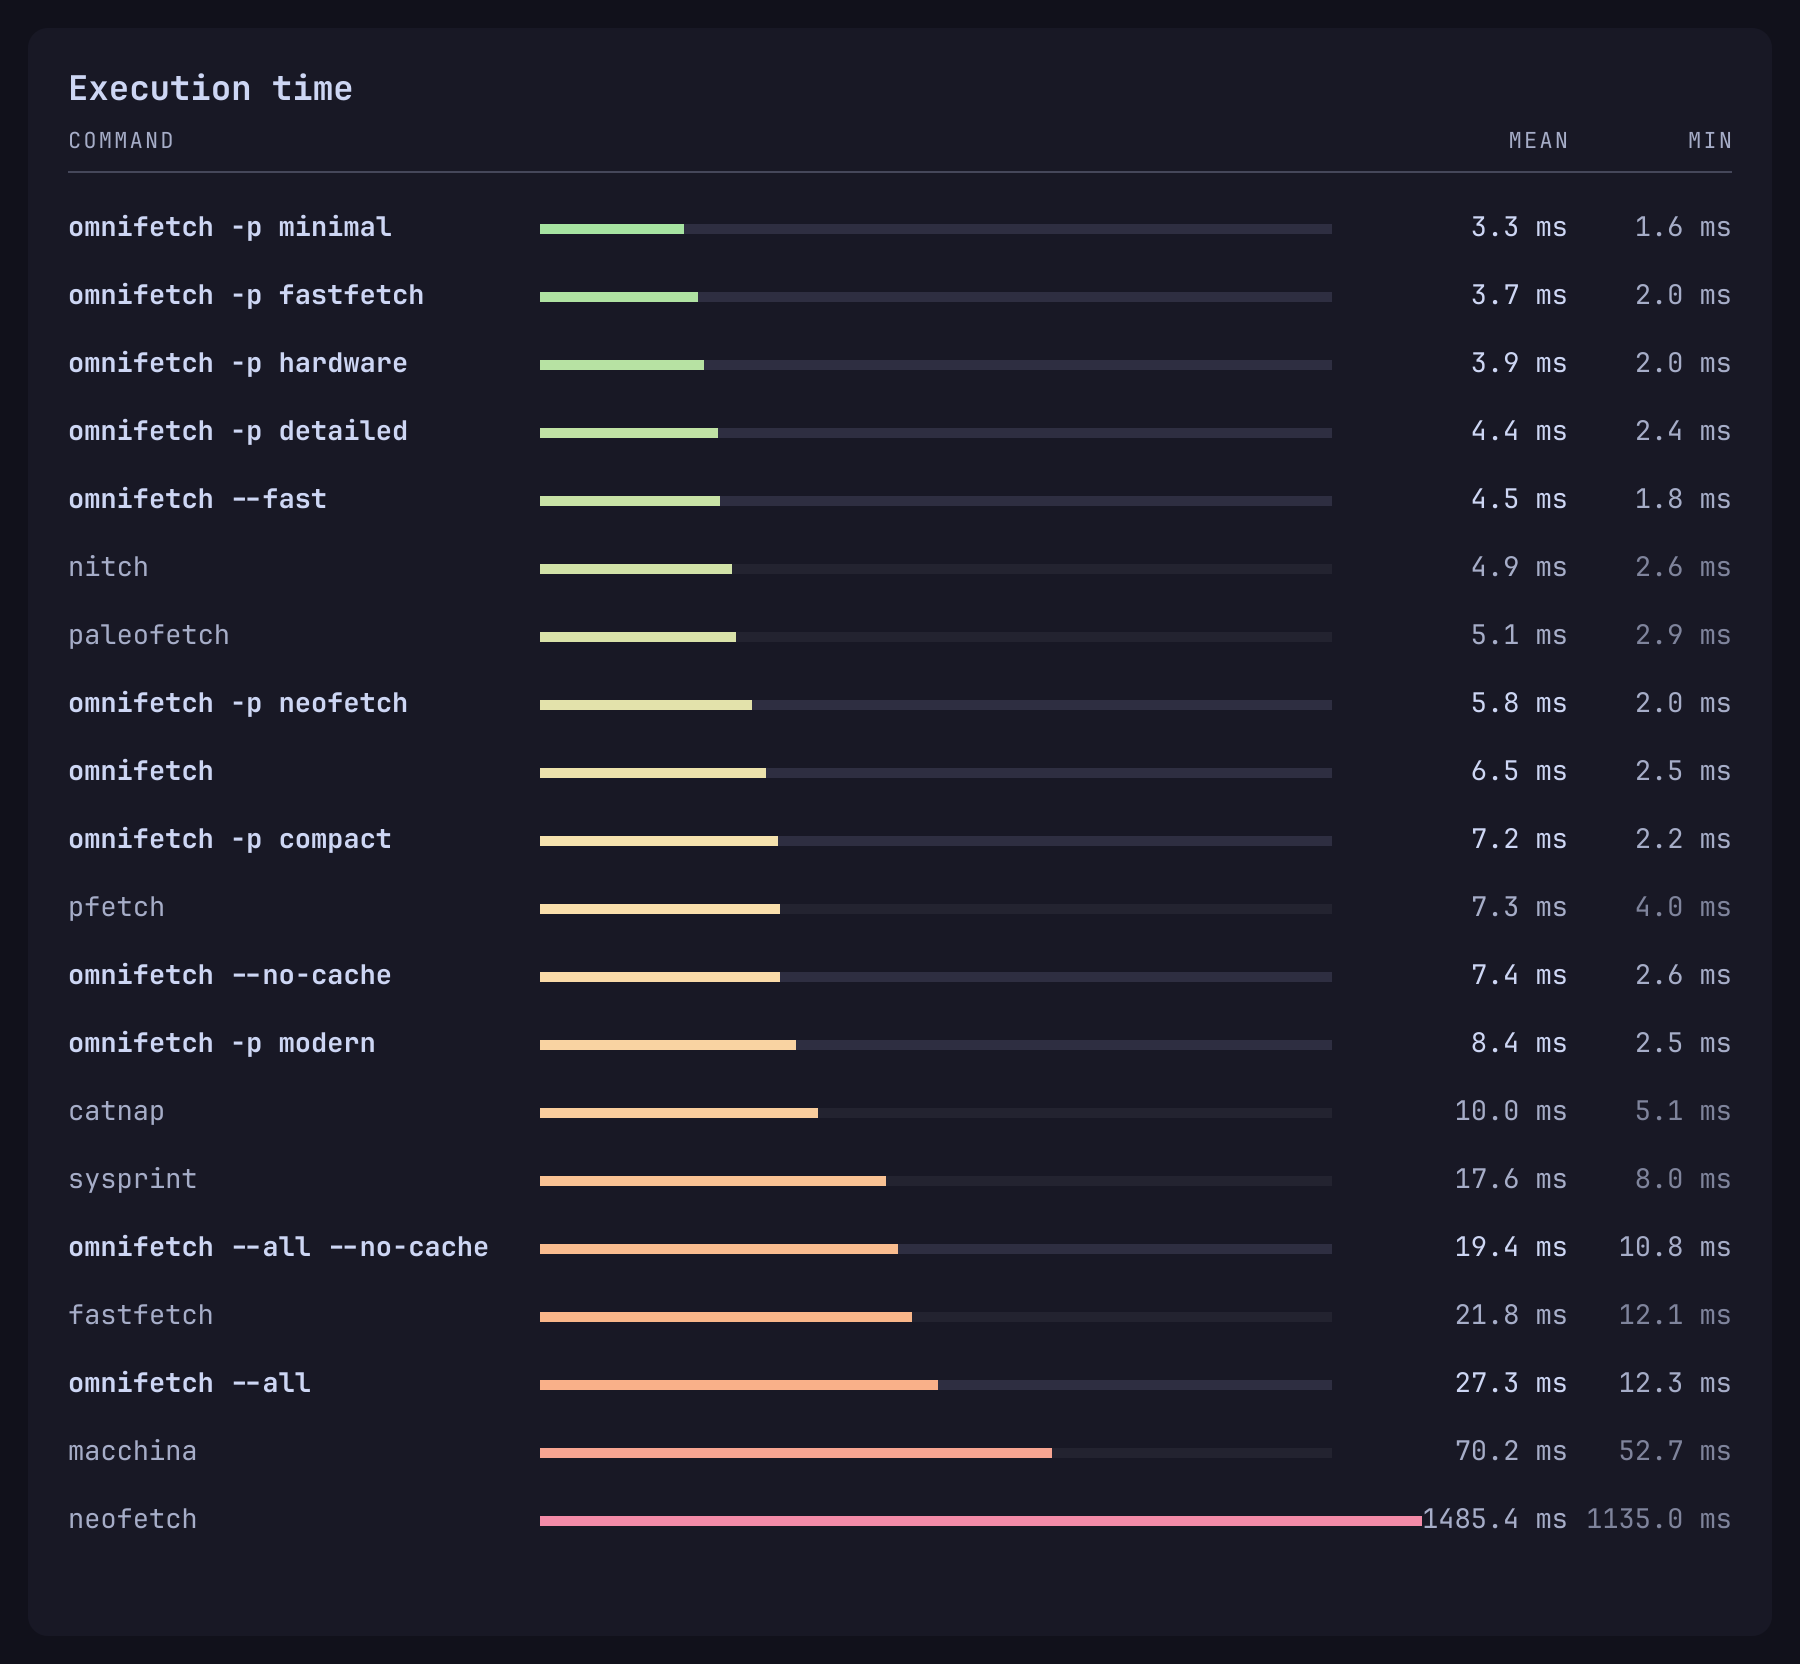
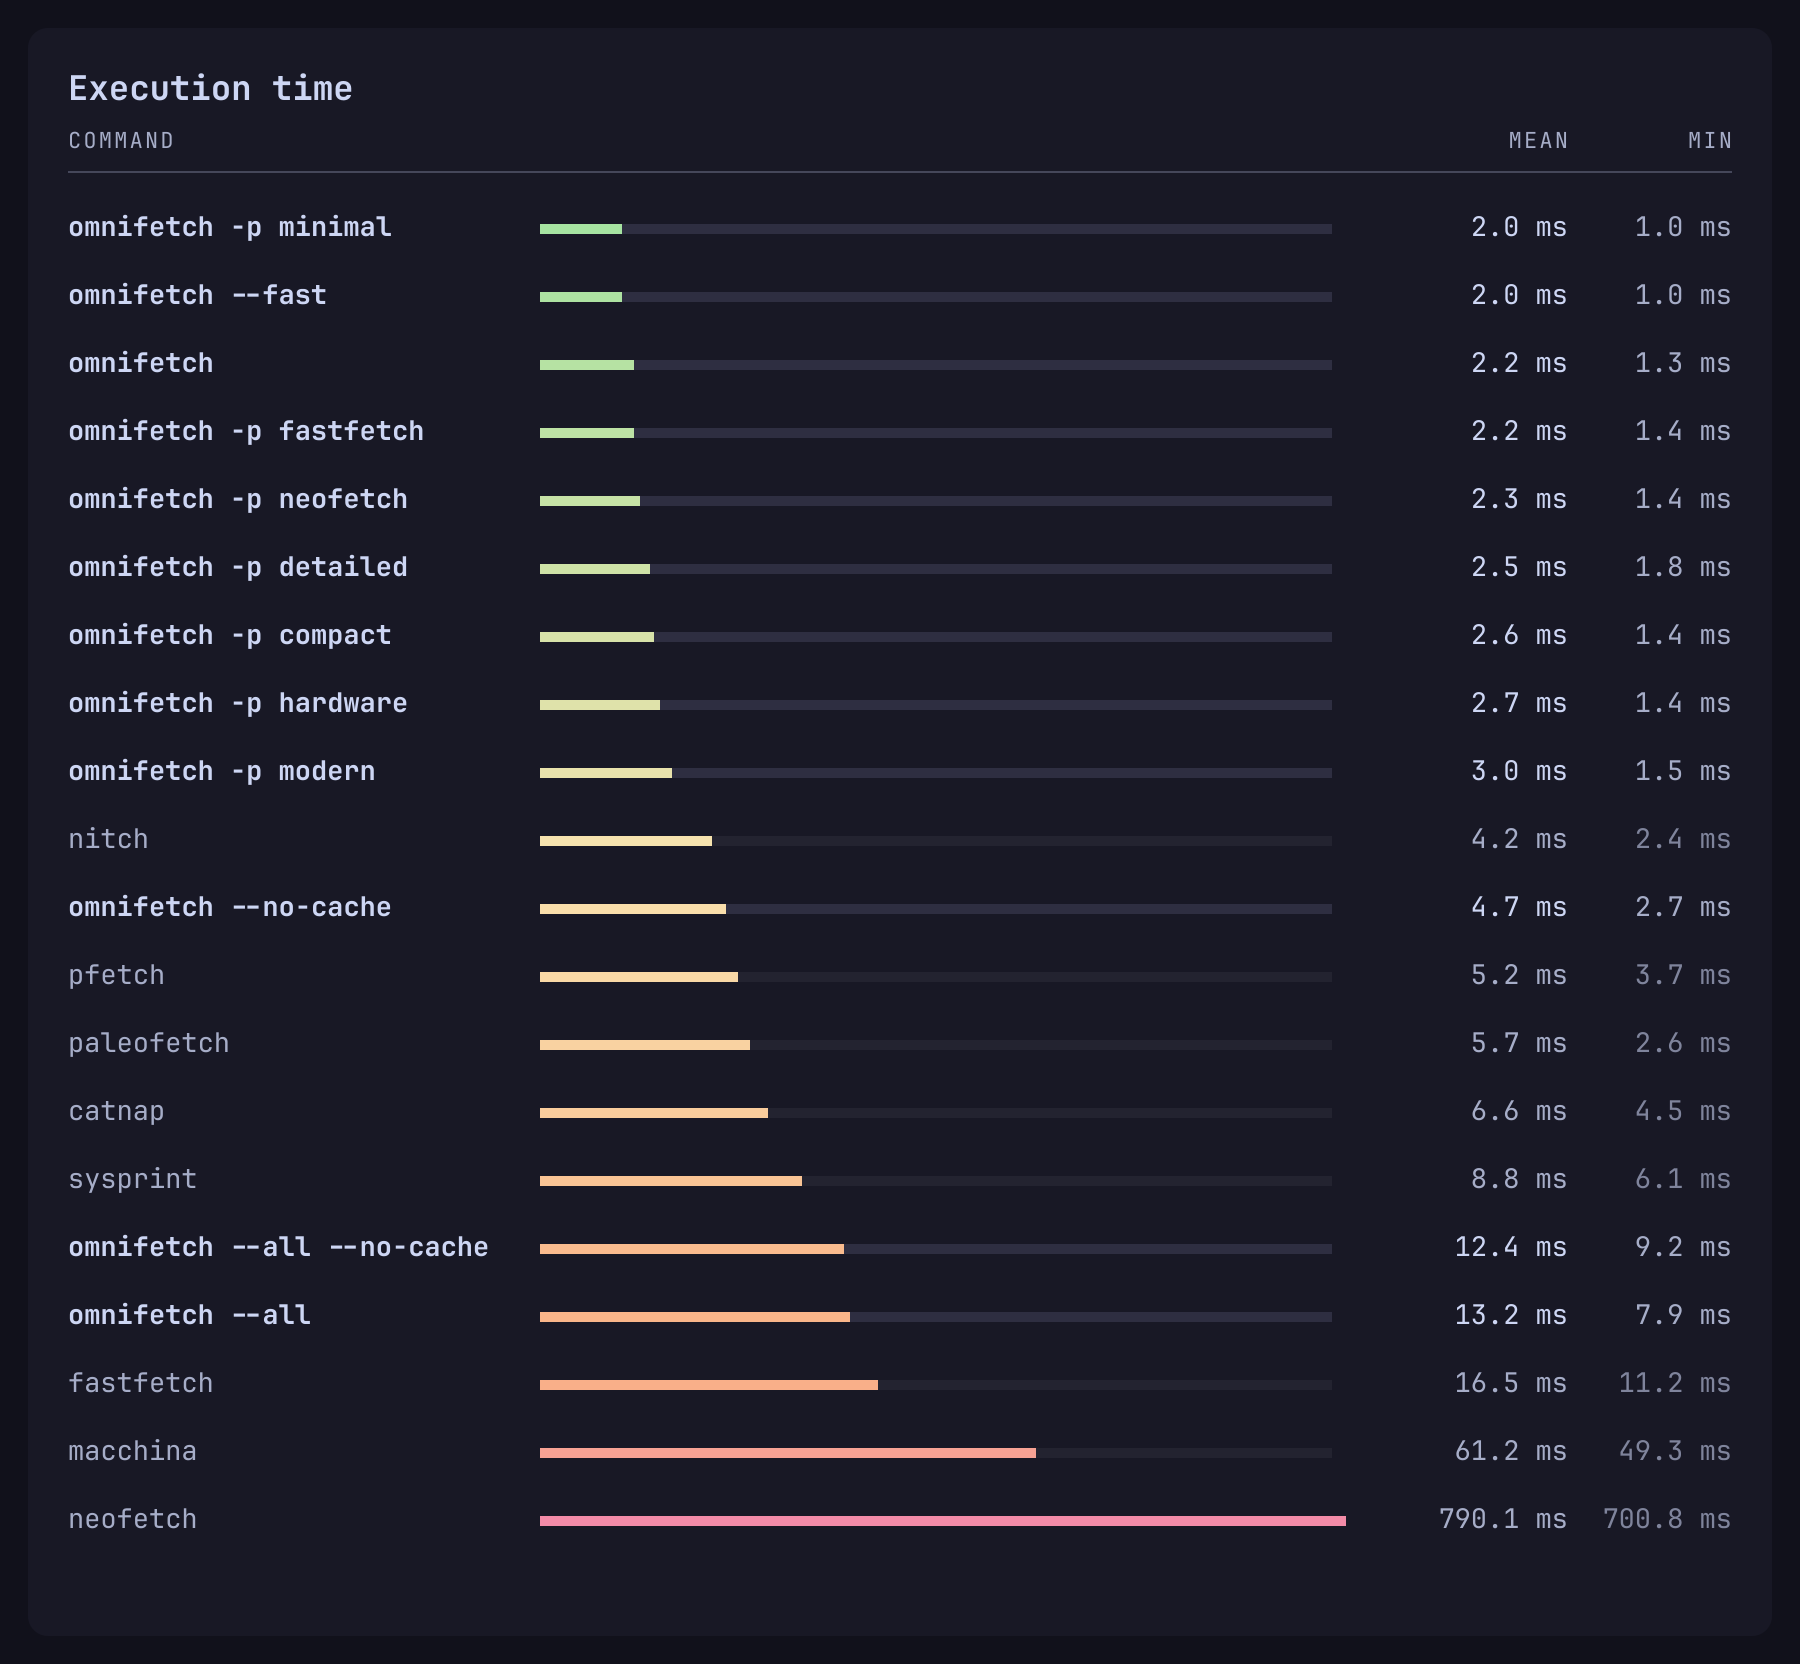
docs: update benchmark results and preview assets

diff --git a/benchmark_results.md b/benchmark_results.md
@@ -15,58 +15,58 @@ Modules = how many information blocks the command printed.
 
 Command                                Modules   Mean ms    Min ms
 ------------------------------------------------------------------
-omnifetch -p minimal                         4       3.3       1.6
-omnifetch -p fastfetch                      22       3.7       2.0
-omnifetch -p hardware                       14       3.9       2.0
-omnifetch -p detailed                       33       4.4       2.4
-omnifetch --fast                            19       4.5       1.8
-nitch                                        9       4.9       2.6
-paleofetch                                  11       5.1       2.9
-omnifetch -p neofetch                       17       5.8       2.0
-omnifetch                                   14       6.5       2.5
-omnifetch -p compact                        13       7.2       2.2
-pfetch                                       6       7.3       4.0
-omnifetch --no-cache                        14       7.4       2.6
-omnifetch -p modern                         19       8.4       2.5
-catnap                                      16      10.0       5.1
-sysprint                                    23      17.6       8.0
-omnifetch --all --no-cache                  82      19.4      10.8
-fastfetch                                   23      21.8      12.1
-omnifetch --all                             82      27.3      12.3
-macchina                                    16      70.2      52.7
-omnifetch --network --no-cache              16     149.8     112.0
-omnifetch --all --network                   84     158.9     110.5
-omnifetch --network                         16     163.7     112.8
-omnifetch --all --network --no-cache        84     208.0     123.3
-neofetch                                    16    1485.4    1135.0
+omnifetch -p minimal                         4       2.0       1.0
+omnifetch --fast                            19       2.0       1.0
+omnifetch -p fastfetch                      22       2.2       1.4
+omnifetch                                   25       2.2       1.3
+omnifetch -p neofetch                       17       2.3       1.4
+omnifetch -p detailed                       33       2.5       1.8
+omnifetch -p compact                        13       2.6       1.4
+omnifetch -p hardware                       14       2.7       1.4
+omnifetch -p modern                         19       3.0       1.5
+nitch                                        9       4.2       2.4
+omnifetch --no-cache                        25       4.7       2.7
+pfetch                                       6       5.2       3.7
+paleofetch                                  11       5.7       2.6
+catnap                                      16       6.6       4.5
+sysprint                                    23       8.8       6.1
+omnifetch --all --no-cache                  82      12.4       9.2
+omnifetch --all                             82      13.2       7.9
+fastfetch                                   23      16.5      11.2
+macchina                                    16      61.2      49.3
+omnifetch --network --no-cache              27     166.6     127.7
+omnifetch --network                         27     190.2     117.7
+omnifetch --all --network --no-cache        84     200.0     125.0
+omnifetch --all --network                   84     278.6     121.2
+neofetch                                    16     790.1     700.8
 
 
 2. VIA SHELL
 
 Command                                Modules   Mean ms    Min ms
 ------------------------------------------------------------------
-nitch                                        9       2.2       0.0
-paleofetch                                  11       2.8       0.0
-omnifetch -p minimal                         4       3.6       0.0
-pfetch                                       6       3.8       1.2
-omnifetch -p compact                        13       4.5       0.0
-omnifetch -p neofetch                       17       4.6       0.0
-omnifetch --fast                            19       4.9       0.0
-omnifetch --no-cache                        14       5.0       0.1
-omnifetch -p modern                         19       6.1       0.0
-omnifetch -p fastfetch                      22       6.4       0.4
-catnap                                      16       6.8       2.0
-sysprint                                    23       7.7       4.1
-omnifetch -p detailed                       33       8.0       1.5
-omnifetch                                   14       9.2       0.0
-omnifetch -p hardware                       14       9.8       0.1
-fastfetch                                   23      14.7       9.1
-omnifetch --all                             82      14.9       6.5
-omnifetch --all --no-cache                  82      18.1       8.7
-macchina                                    16      63.9      52.6
-omnifetch --all --network --no-cache        84     148.3     114.1
-omnifetch --network                         16     169.6     109.2
-omnifetch --all --network                   84     186.3     115.9
-omnifetch --network --no-cache              16     193.1     112.2
-neofetch                                    16    1282.5     775.6
+omnifetch -p minimal                         4       2.0       0.4
+omnifetch -p compact                        13       2.6       0.8
+omnifetch -p modern                         19       3.0       1.0
+nitch                                        9       3.1       1.6
+paleofetch                                  11       3.2       1.7
+omnifetch                                   25       3.3       0.9
+omnifetch --fast                            19       3.4       0.5
+omnifetch -p hardware                       14       5.2       0.9
+pfetch                                       6       5.5       2.8
+catnap                                      16       5.7       3.6
+omnifetch -p neofetch                       17       6.2       0.8
+omnifetch -p fastfetch                      22       7.4       1.0
+sysprint                                    23       8.7       5.4
+omnifetch --no-cache                        25       8.8       2.2
+omnifetch -p detailed                       33      12.0       1.6
+omnifetch --all                             82      14.5       8.2
+fastfetch                                   23      15.2      10.2
+omnifetch --all --no-cache                  82      19.1       8.5
+macchina                                    16      60.3      47.3
+omnifetch --all --network                   84     351.6     141.2
+omnifetch --network                         27     358.1     129.5
+omnifetch --all --network --no-cache        84     365.6     113.3
+omnifetch --network --no-cache              27     463.1     133.6
+neofetch                                    16     714.0     640.2
 
